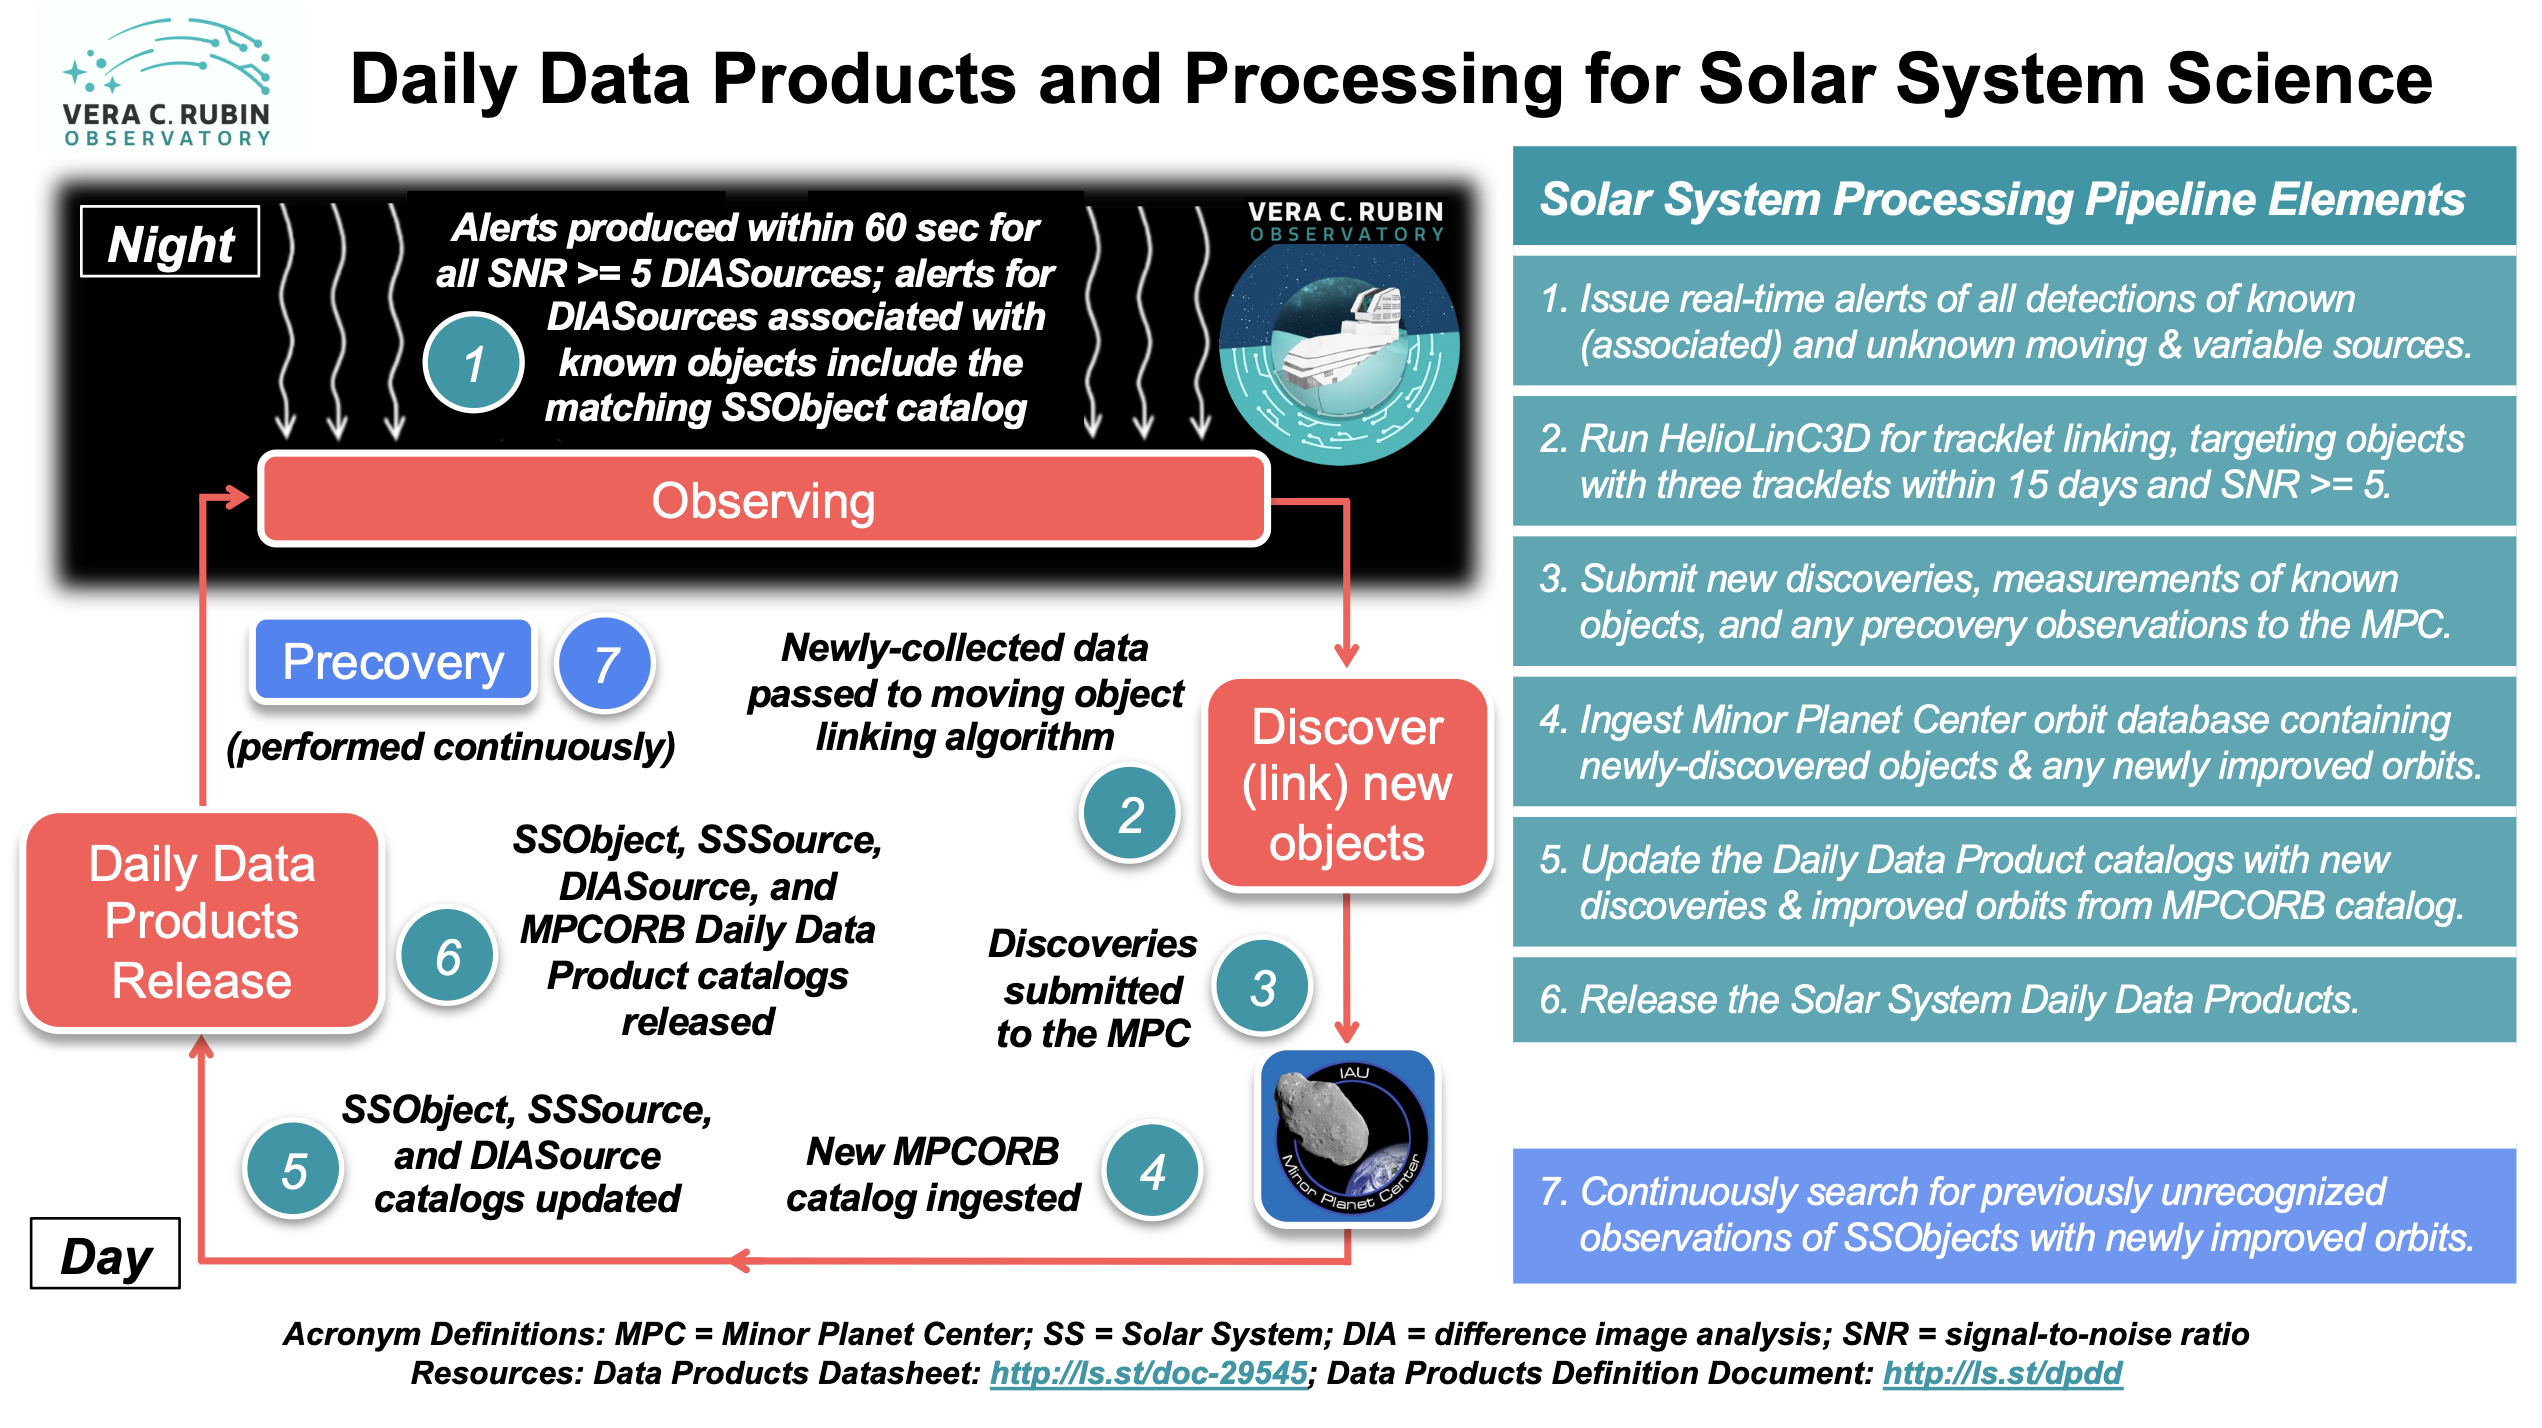
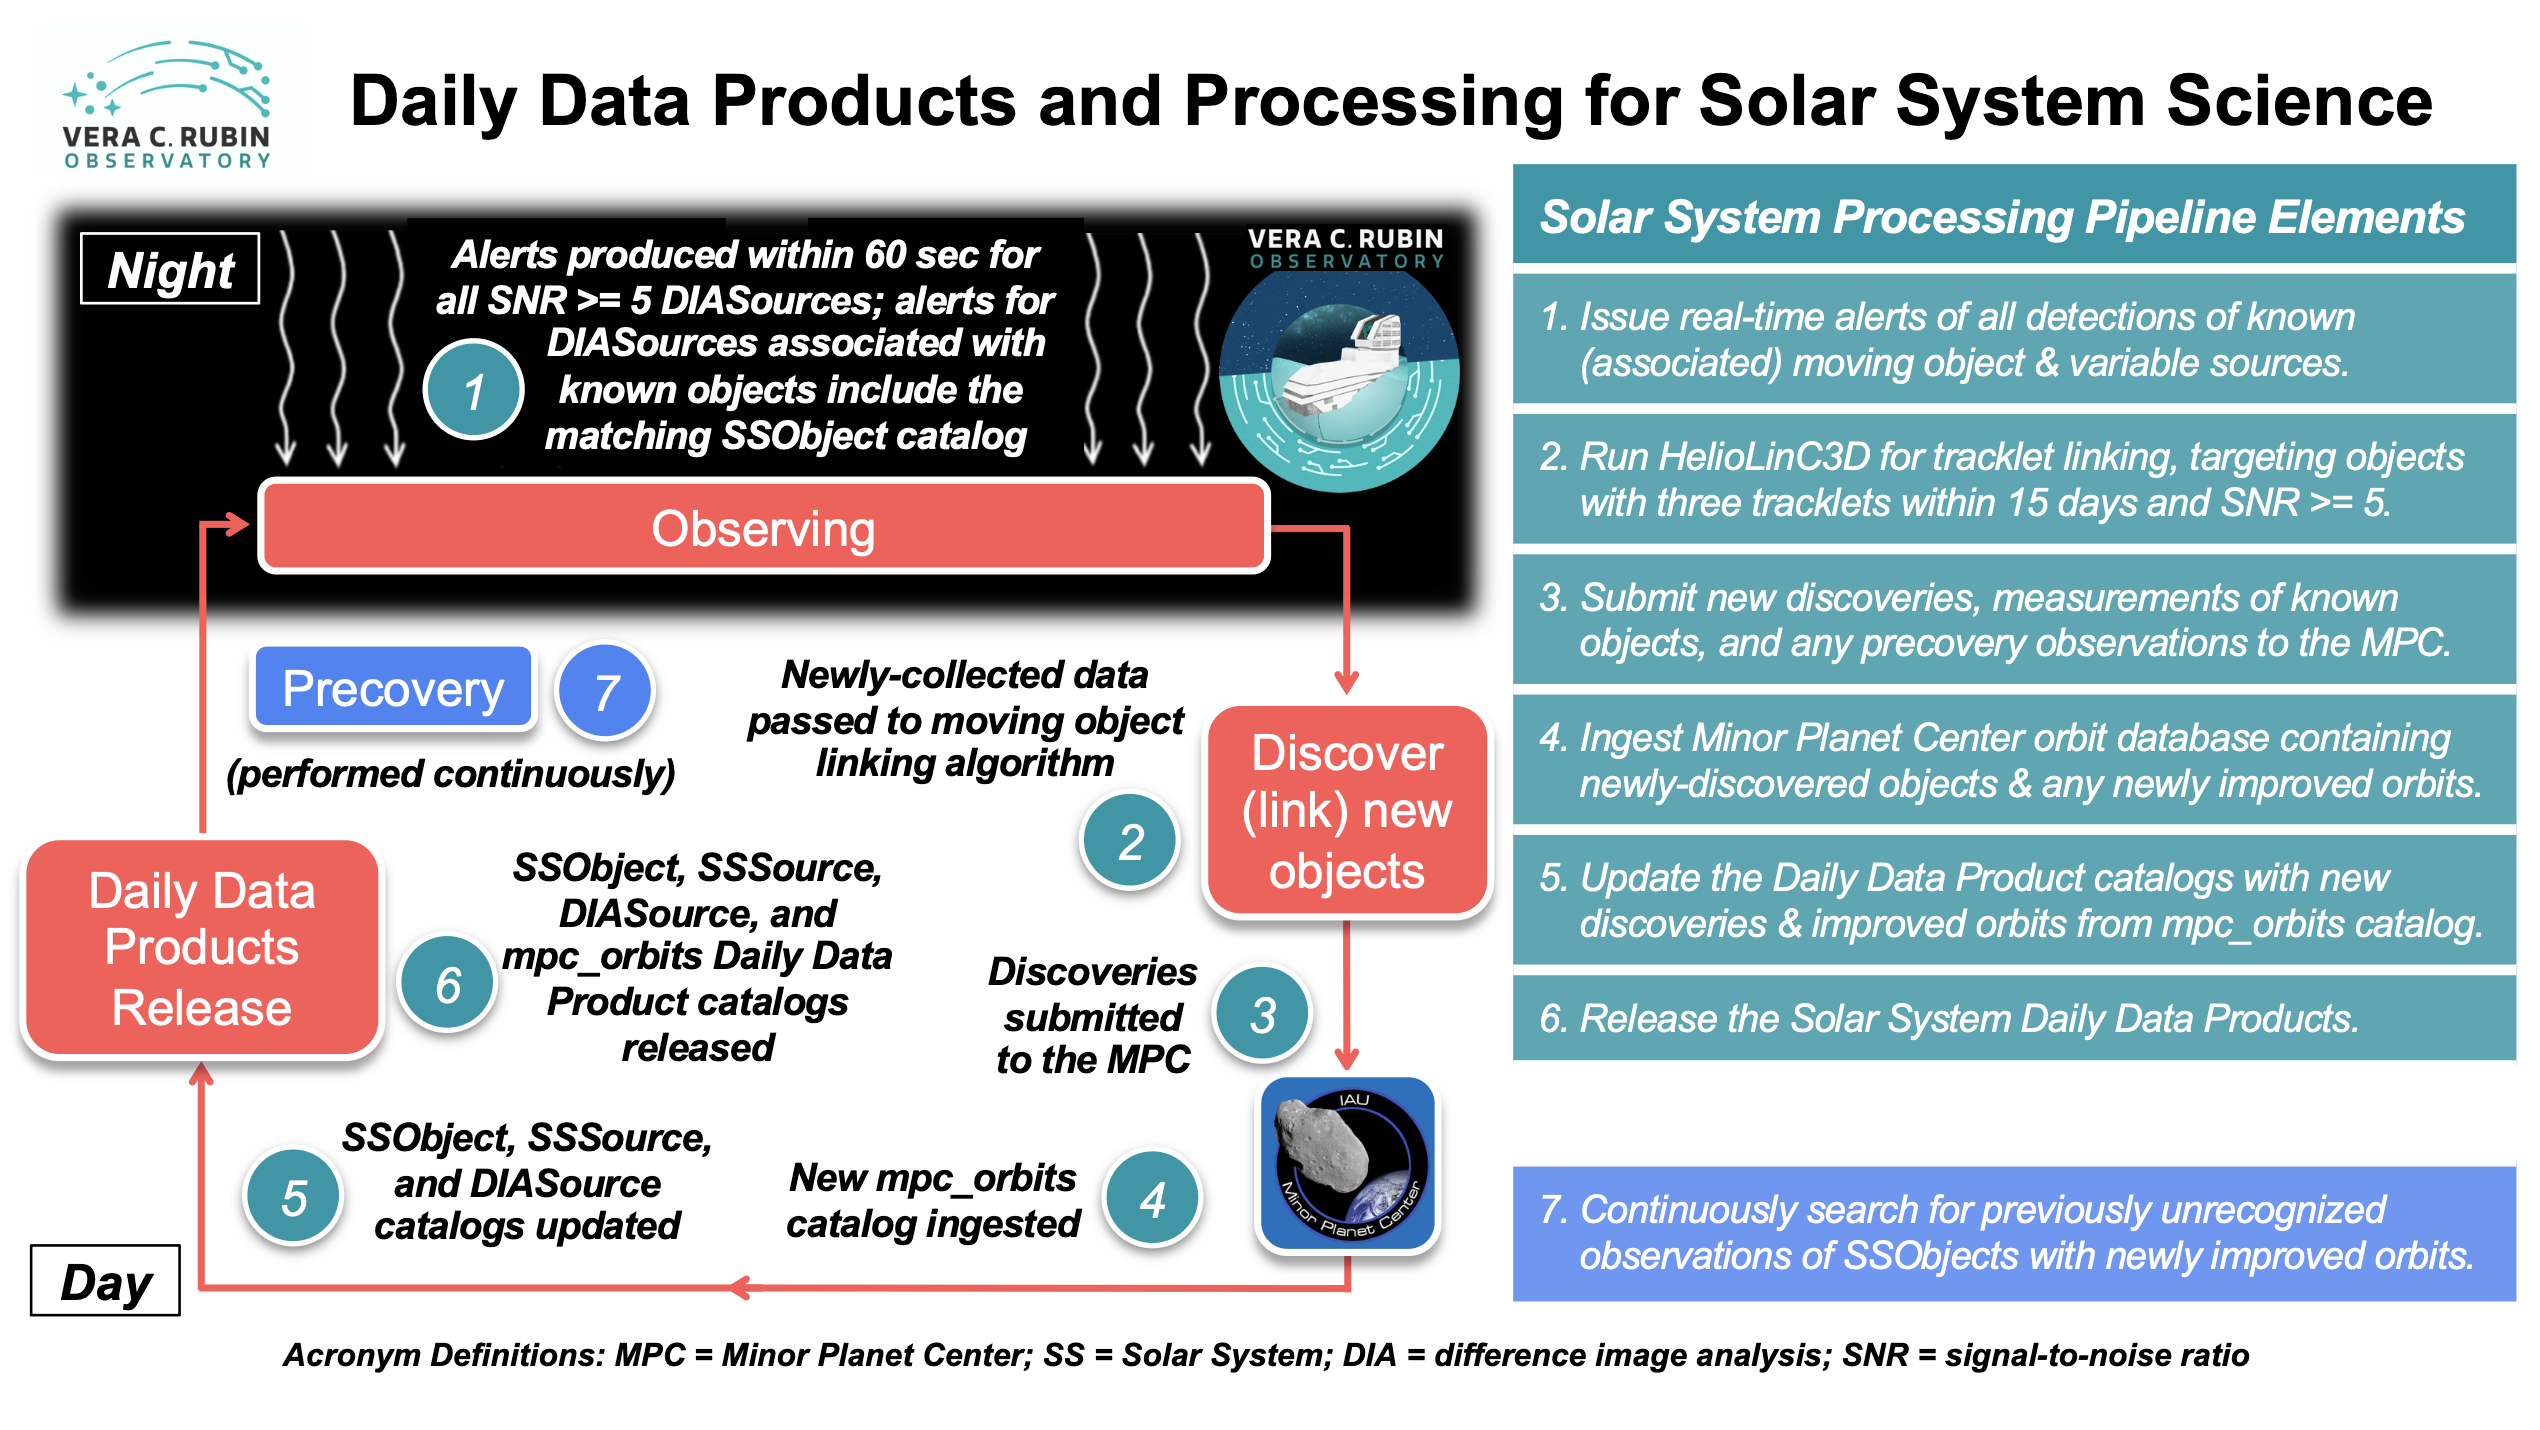
final edits

diff --git a/docs/processing/moving/ss_prompt.rst b/docs/processing/moving/ss_prompt.rst
@@ -9,7 +9,7 @@ Solar System prompt processing
 The goal of the nightly Solar System Processing (SSP) pipeline is to link (identify) previously unknown ``SSObjects``, given an additional night of observing, and report the discoveries to the `Minor Planet Center <https://minorplanetcenter.net>`_ (MPC), as well as to compute physical (e.g., absolute magnitudes) and other auxiliary properties (e.g., predicted apparent magnitudes and coordinates in various coordinate systems) for known Solar System objects and their LSST observations.
 
 The majority of the pipeline's processing occurs in daytime, after a night of observing.
-The pipeline will deliver daily data products for Solar System objects in the form of catalogs: ``SSObject``, ``SSSource``, ``DiaSource``, and ``mpc_orbits``, which are described in the :doc:`/products/catalogs/index` documentation and the `Data Products Definition Document <https://lse-163.lsst.io>`_ (DPDD).
+The pipeline will deliver daily data products for Solar System objects in the form of catalogs: ``SSObject``, ``SSSource``, ``DiaSource``, and ``mpc_orbits``, which are described in the :doc:`/products/catalogs/index` documentation.
 The SSP pipeline is illustrated in the infographic provided above.
 For more information on the moving object tracklet linking and orbit fitting algorithm, see :doc:`/processing/moving/ss_linking`.
 

diff --git a/docs/processing/moving/index.rst b/docs/processing/moving/index.rst
@@ -28,7 +28,7 @@ Solar System processing
 Solar System processing consists of two key components: the association of observations (sources) with known solar system objects, and the discovery of previously unknown objects by linking sets of tracklets, where a tracklet is defined as two or more observations taken in close succession in a single night.
 
 To generate expected positions for known objects, ephemerides are computed for all objects found in the Minor Planet Center orbit catalog using the ``Sorcha`` survey simulation toolkit (`Merritt et al., in press <https://github.com/dirac-institute/sorcha>`_).
-To enable fast lookup of objects potentially present in an observed visit, we use the ``mpsky`` package (M. Juric 2025).
+To enable fast lookup of objects potentially present in an observed visit, ``Sorcha`` uses the ``mpsky`` package (M. Juric 2025).
 In each difference image resulting from :doc:`/processing/dia/index` processing, the closest ``DIASource`` within 1 arcsecond of a known solar system object’s predicted position is associated to that object (for details, see the :doc:`/processing/association/index` page).
 
 Solar system object discovery uses the ``heliolinx`` package of asteroid identification and linking tools (`A. Heinze et al. 2023 <https://ui.adsabs.harvard.edu/abs/2023DPS....5540503H/abstract>`_).
